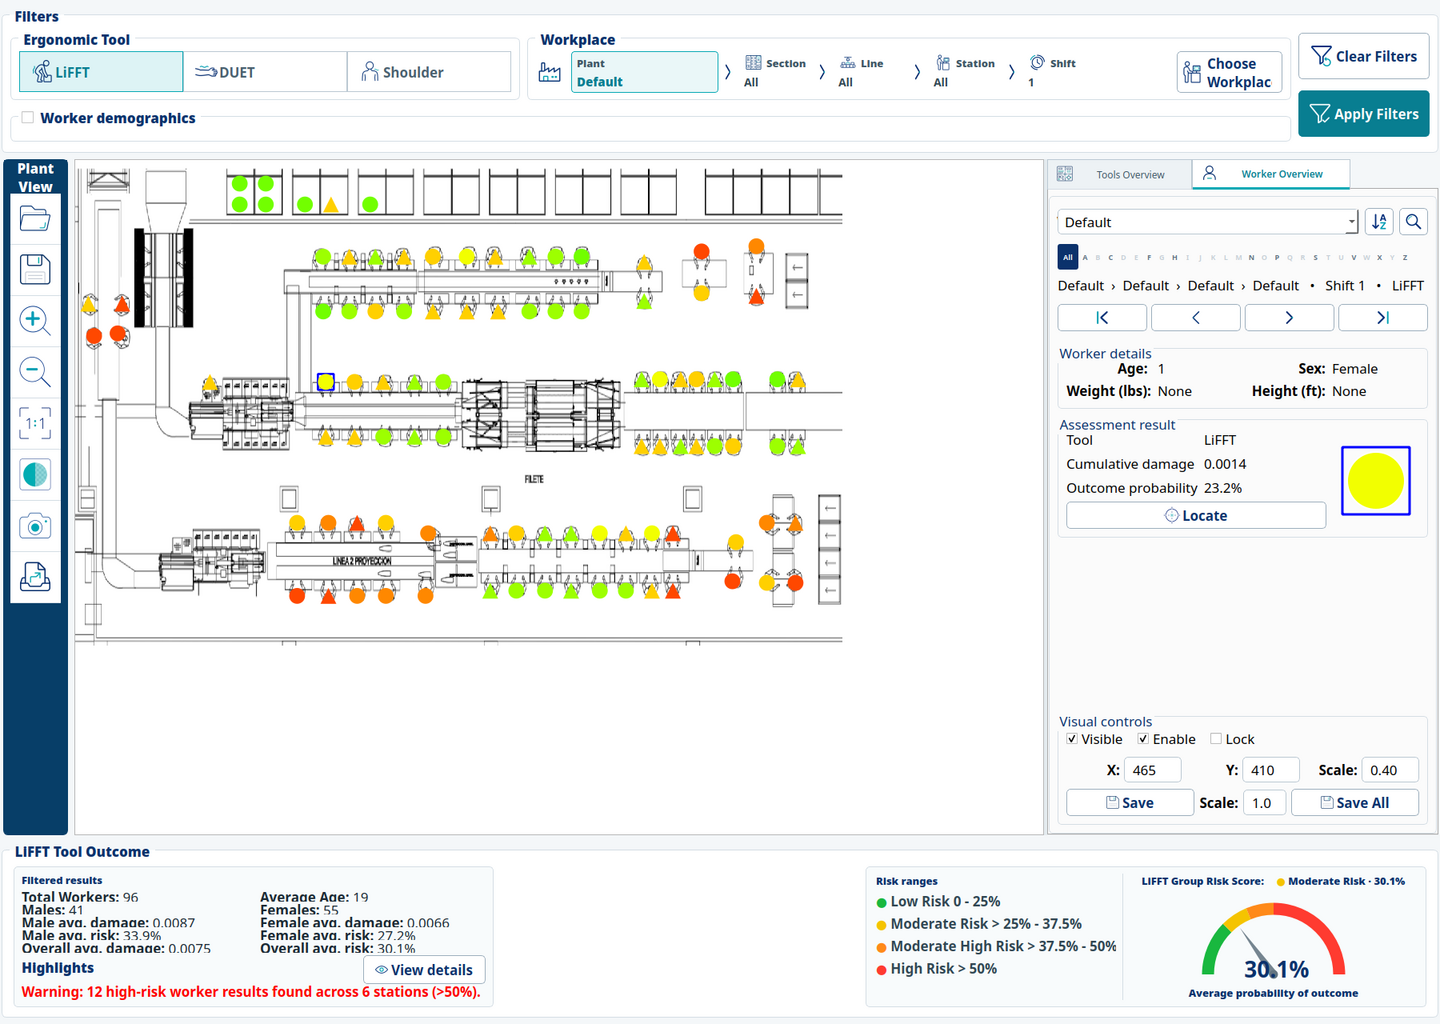
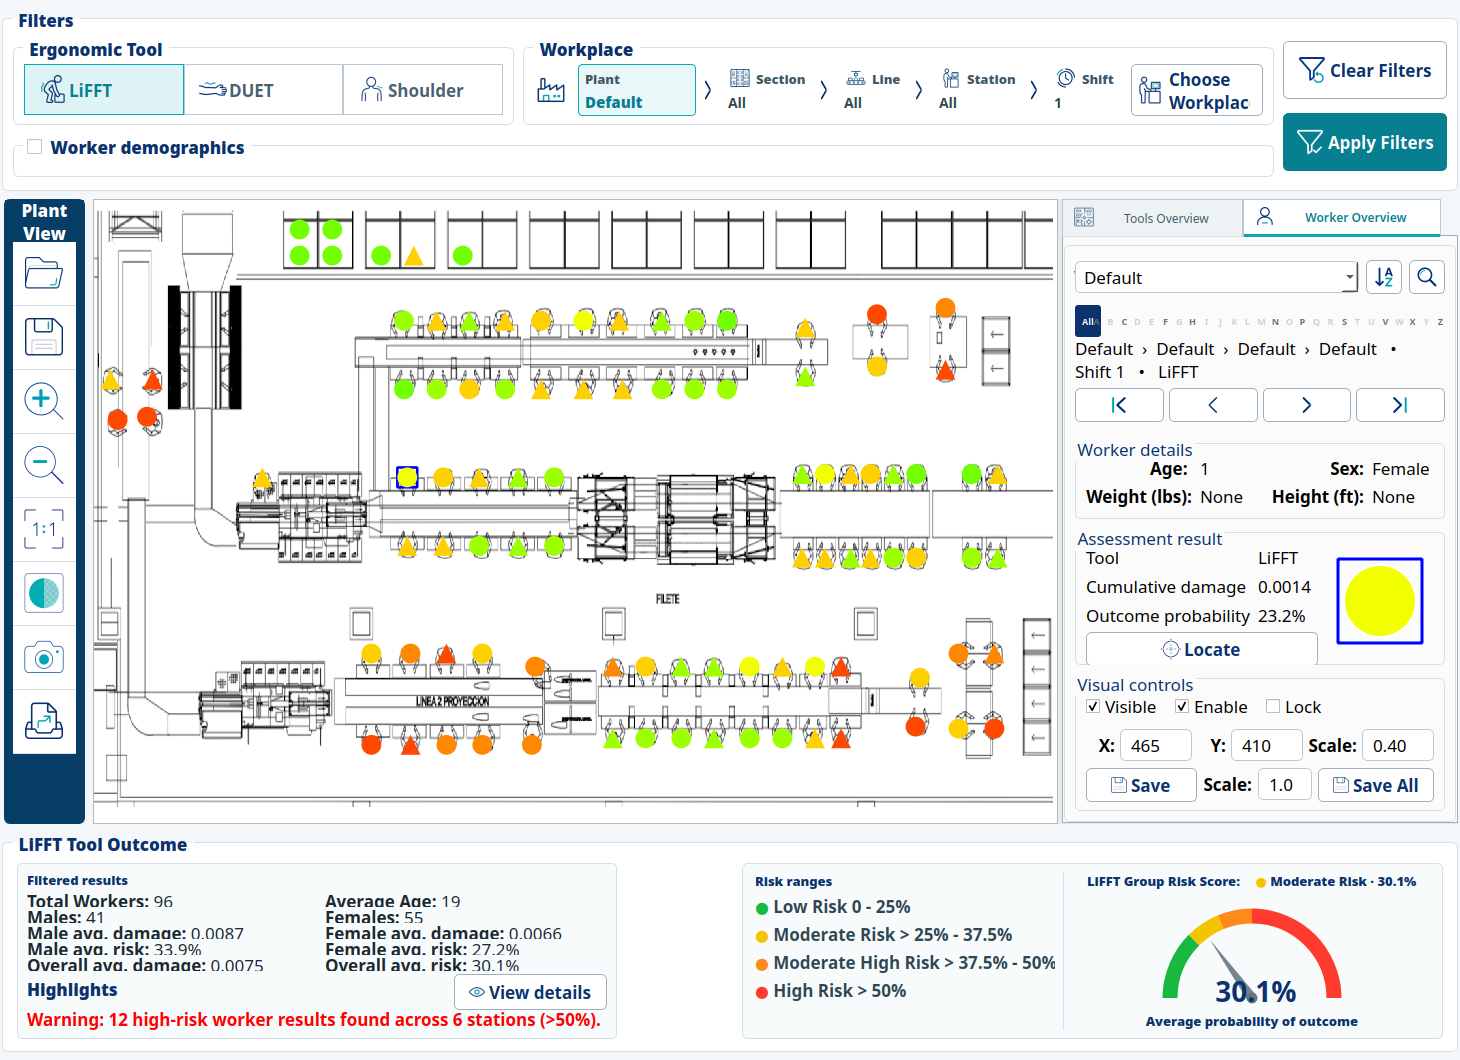
expand ErgoTools interface documentation

Changed region(s): [[0.0, 0.0, 1.0, 1.0]]

diff --git a/README.md b/README.md
@@ -10,7 +10,7 @@
 [![Research software](https://img.shields.io/badge/status-research%20software-0A8A99)](#project-status)
 [![License: Apache 2.0](https://img.shields.io/badge/License-Apache%202.0-0B326C.svg)](LICENSE.txt)
 
-[Overview](#overview) · [Capabilities](#key-capabilities) · [Scientific basis](#scientific-basis) · [Installation](#installation) · [Publications](#publications) · [Analytical views](#interface-and-analytical-views)
+[Overview](#overview) · [ErgoTools](#ergotools-individual-assessment) · [PLOT](#plot-organizational-analysis) · [Scientific basis](#scientific-basis) · [Installation](#installation) · [Publications](#publications)
 </div>
 
 ![PLOT facility-wide ergonomic risk overview](docs/images/plot-overview.png)
@@ -21,7 +21,8 @@
 - [Key capabilities](#key-capabilities)
 - [Scientific basis](#scientific-basis)
 - [Workflow](#workflow)
-- [Interface and analytical views](#interface-and-analytical-views)
+- [ErgoTools individual assessment](#ergotools-individual-assessment)
+- [PLOT organizational analysis](#plot-organizational-analysis)
 - [Installation](#installation)
 - [Running ErgoTools](#running-ergotools)
 - [Project files and data](#project-files-and-data)
@@ -84,13 +85,47 @@ Associate the assessment with workplace and shift
 Use PLOT to filter, map, compare, and prioritize results
 ```
 
-## Interface and analytical views
+## ErgoTools individual assessment
 
-### Individual assessment
+The main ErgoTools workspace combines project and worker selection, anatomical context, task-level exposure data, calculation controls, and individual results. A common structure is retained across LiFFT, DUET, and the Shoulder Tool so that analysts can change methods without changing the overall workflow.
 
-Each assessment workspace accepts the task variables required by the selected method and reports task-level damage contributions, total cumulative damage, and estimated outcome probability. The gauge represents the individual's outcome probability and corresponding risk category; cumulative damage is reported separately because it is a distinct quantity.
+![Complete ErgoTools LiFFT assessment workspace](docs/images/ergotools-lifft-full.png)
 
-![Shoulder Tool assessment workspace](docs/images/assessment-workspace.png)
+The header identifies the active project and provides project-level actions. The worker bar supports direct selection, alphabetical filtering, record management, search, transfer of existing assessment data, and sequential navigation. The workplace strip records the plant, section, line, station, and shift associated with the assessment; this analytical assignment is distinct from the worker's identity record.
+
+### Anatomical and analytical context
+
+<table>
+  <tr>
+    <td width="24%"><img src="docs/images/ergotools-body-region.png" alt="Anatomical body-region panel for the Shoulder Tool"></td>
+    <td width="56%"><img src="docs/images/ergotools-assessment-panel.png" alt="LiFFT task-entry and calculation panel"></td>
+    <td width="20%"><img src="docs/images/ergotools-individual-results.png" alt="DUET individual outcome summary"></td>
+  </tr>
+  <tr>
+    <td valign="top"><strong>Body region</strong><br>The anatomical view identifies the region evaluated by the active method. Rotation, zoom, and reset controls support inspection, while the adjacent legend states the individual risk categories.</td>
+    <td valign="top"><strong>Task assessment</strong><br>Each row represents an exposure component. The table reports its cumulative-damage contribution and share of total damage; the calculation area reports the aggregate damage and outcome probability.</td>
+    <td valign="top"><strong>Individual results</strong><br>The gauge reports estimated outcome probability and its risk category. Cumulative damage, task count, repetitions, key exposure metrics, and data-completeness status remain visible beside the assessment.</td>
+  </tr>
+</table>
+
+Cumulative damage and outcome probability are related outputs but are not interchangeable. Cumulative damage is the fatigue-failure exposure measure accumulated across entered tasks. The probability gauge expresses the model-derived likelihood of the tool-specific adverse outcome and maps it to the established risk categories. A gray result state indicates that an assessment is unavailable or incomplete rather than a measured low-risk result.
+
+### Assessment methods
+
+<table>
+  <tr>
+    <td width="50%"><img src="docs/images/ergotools-lifft-full.png" alt="LiFFT assessment in the ErgoTools main window"></td>
+    <td width="50%"><img src="docs/images/ergotools-duet-full.png" alt="DUET assessment in the ErgoTools main window"></td>
+  </tr>
+  <tr>
+    <td valign="top"><strong>LiFFT</strong><br>Evaluates low-back loading from load, horizontal lever arm, and repetitions. ErgoTools calculates task moment, cumulative damage, percentage contribution, and probability of a high-risk job.</td>
+    <td valign="top"><strong>DUET</strong><br>Evaluates distal upper-extremity loading from OMNI-RES exertion ratings and repetitions. The task table shows which exertions dominate cumulative damage and the resulting distal upper-extremity outcome probability.</td>
+  </tr>
+</table>
+
+![Shoulder Tool assessment in the complete ErgoTools workspace](docs/images/ergotools-shoulder-full.png)
+
+**Shoulder Tool.** Task type, lever arm, load, and repetitions are combined to estimate shoulder cumulative damage and outcome probability. The complete-window view also shows the common project, worker, workplace, anatomical, and status context shared by all three methods.
 
 ### Worker and organization management
 
@@ -105,13 +140,15 @@ Each assessment workspace accepts the task variables required by the selected me
   </tr>
 </table>
 
-### Facility-level analysis with PLOT
+Worker records and workplace entities are maintained separately from calculation inputs. Worker identity requires only a unique identifier; demographic and employment details remain optional. The organization editor manages the plant → section → line → station hierarchy and independent shifts used to contextualize assessments and filter PLOT results.
+
+## PLOT organizational analysis
 
 PLOT displays one plant layout at a time. Each marker represents a worker result at its assigned station: circles and triangles distinguish worker sex, marker color represents the applicable risk category, and a blue frame identifies the selected result. Filters define the analytical population by ergonomic tool, workplace hierarchy, shift, and optional demographic ranges.
 
 The **Tools Overview** summarizes the filtered population using comparative graphs. The **Worker Overview** reports the selected worker's assignment, cumulative damage, and outcome probability and can locate that marker within a dense plant layout.
 
-![PLOT worker overview](docs/images/plot-worker-overview.png)
+![PLOT Worker Overview at the standard analysis-window size](docs/images/plot-worker-overview.png)
 
 The outcome panel is specific to the applied ergonomic-tool filter. Its group risk score is the mean outcome probability across enabled worker results that satisfy the active filters. The accompanying summary reports population counts and mean cumulative damage and outcome probability, including sex-specific estimates. High-risk station highlights identify locations containing results above the high-risk threshold and provide station-level counts, means, and maxima for follow-up. The gauge therefore describes the selected population; it is not an additional individual assessment and it does not represent cumulative damage.
 
